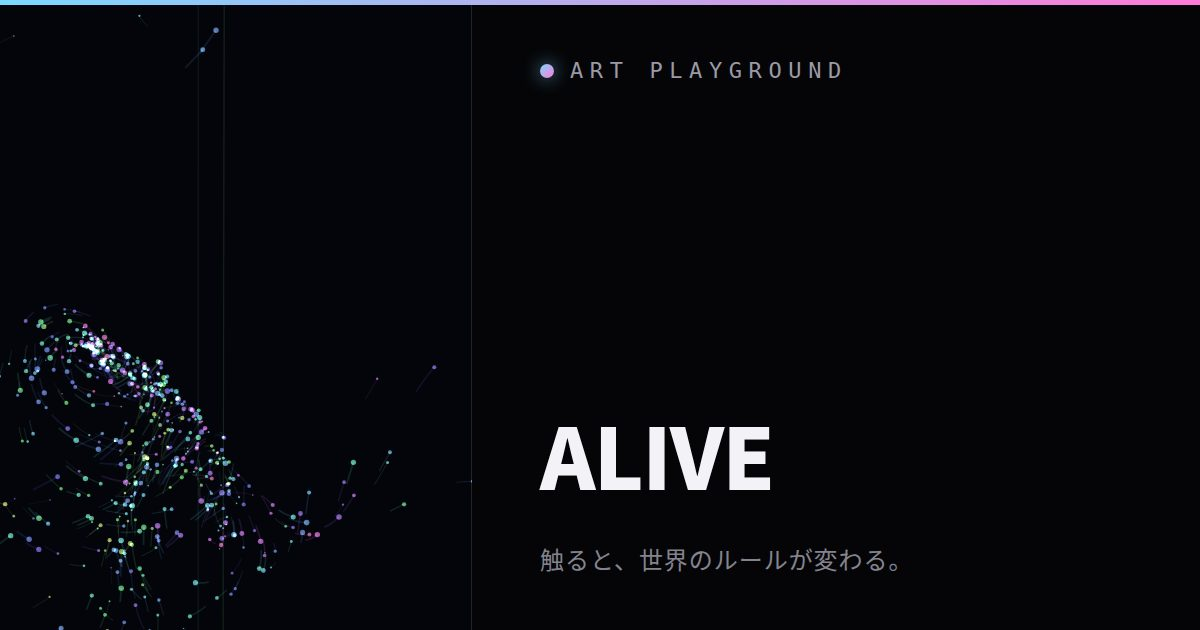
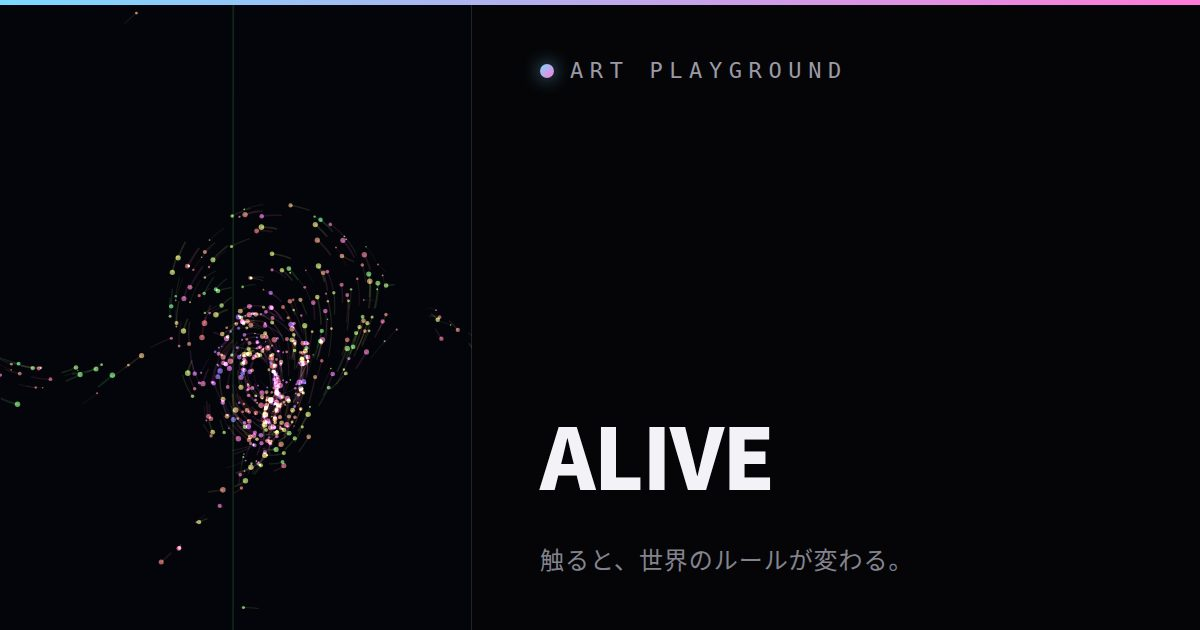
Share: still-image save button (camera) in fullscreen modal; share paintArt/paintMark with recorder; refresh OG cards

diff --git a/CHANGELOG.md b/CHANGELOG.md
@@ -1,3 +1,4 @@
+- 2026-10-06 クロード: 静止画保存を追加(しゅん「静止画保存もやってくれ」)。全画面の右上、録画と共有のあいだにカメラボタン。押した瞬間の画面を、録画と同じ透かし入りのJPEG(横1080px)にしてプレビューに出し、共有/保存できる(動画を撮らない人にも広げるため)。録画のcanvas合成と透かしを `paintArt`/`paintMark` に切り出して共通化(録画の動作は変えず、LAMP FOLDで録画できることを確認)。映らない作品は「画像にできないみたい」と出して画像は作らない。ヘッドレスChromiumで40作品を試し、外部CDNが読めなかったp5.js使用の2作品以外は画像ができた。あわせて、TIDE MARK/ALIVEのポスター修正に伴い、古くなっていたOGPカード(og/)も作り直した。実機での確認は未了(index.html, og/, AGENTS.md, CHANGELOG.md)
 - 2026-10-06 クロード: ギャラリーのポスターが暗い・一色だった TIDE MARK と ALIVE を直した(しゅん「やってくれ」)。TIDE MARKは「引く」操作で色の縁が出る作品なのに、設定が「押すだけ」だったため無地のクリーム色になっていた。`tools/gen_posters.py` に、押したまま直線でなぞる設定 `drags` を追加(設定に書いた作品だけ動く。既存の作品の撮影は変わらない)。TIDE MARKは3本なぞる、ALIVEは1本なぞって7秒待つ設定にして撮り直し、目で見て色の帯・渦が出ていることを確認(posters/, tools/, AGENTS.md, CHANGELOG.md)
 - 2026-10-06 クロード: 録画の対象を5作品から10作品に拡大(HAMSTER DROP / RAINBOW WALK / FEATHER FOLD / OPAL MARBLE / MIRROR DESCENT を`REC_WORKS`に追加)。候補をスマホ幅のヘッドレスChromiumで起動し、触る前後のフレームで見栄えと反応を確認、さらに録画と同じ「canvasをdrawImageで合成」で真っ黒にならないことを数値で確認して選んだ(MIRROR PRESSUREはDESCENTと似るため見送り、ART OF BECOMINGは初期ノイズ状態で映えないため対象外)。その後、しゅんがスマホ実機で追加5作品を録画し、重さは問題なしと確認(index.html, AGENTS.md, CHANGELOG.md)
 - 2026-10-06 クロード: 初回ヒントを追加(しゅん承認。critiqueで「作品を開いたあと何をすればいいか分からない」を最優先の問題として指摘→承認)。作品を開いた約0.9秒後に1行を薄く出し、最初のタッチか6秒で消える。作品ごと・端末ごとに1回だけ。文言は`META`の`hint`(先頭の「開いて、」は除く)、無ければタイルの一言説明。あわせて、PC幅(700px以上)でCURRENTの4:5を保ったまま幅を画面の高さに合わせて縮め、題名とCTAが最初の画面に入るようにし、全画面の✕に`aria-label`を付けた。スマホ幅は従来どおり。作品ファイル・`ap-kit.js`は変更なし。詳細はAGENTS.md 17章(index.html, AGENTS.md, CHANGELOG.md)
